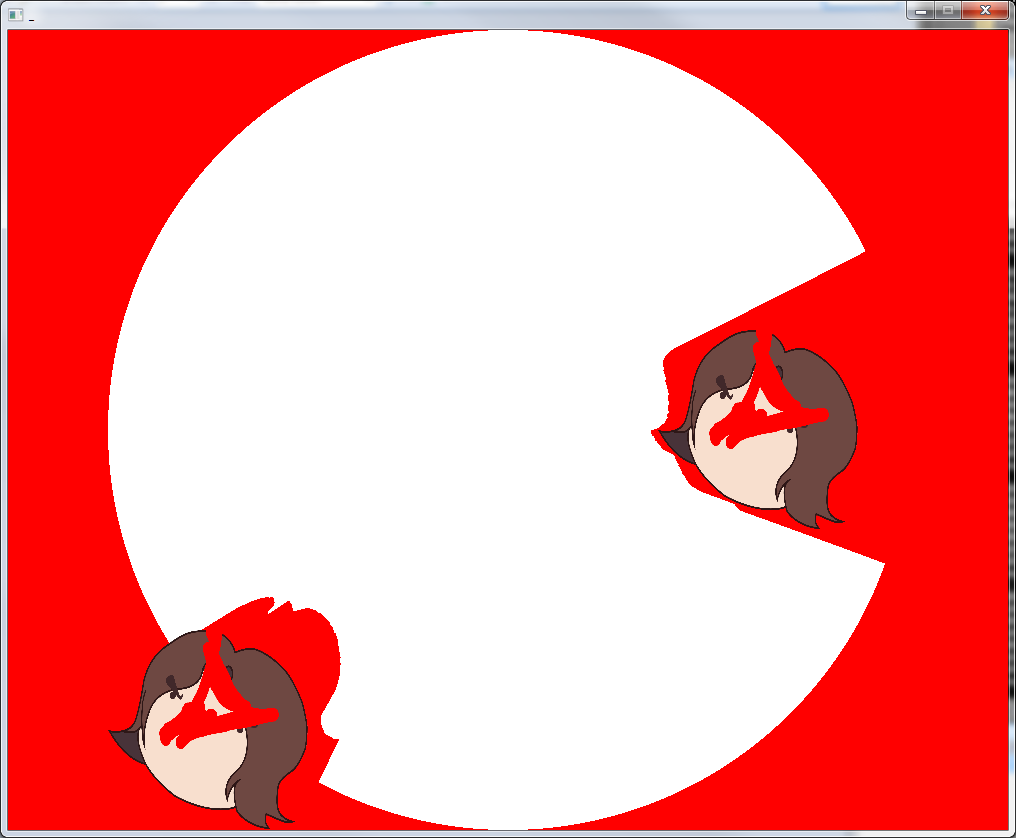
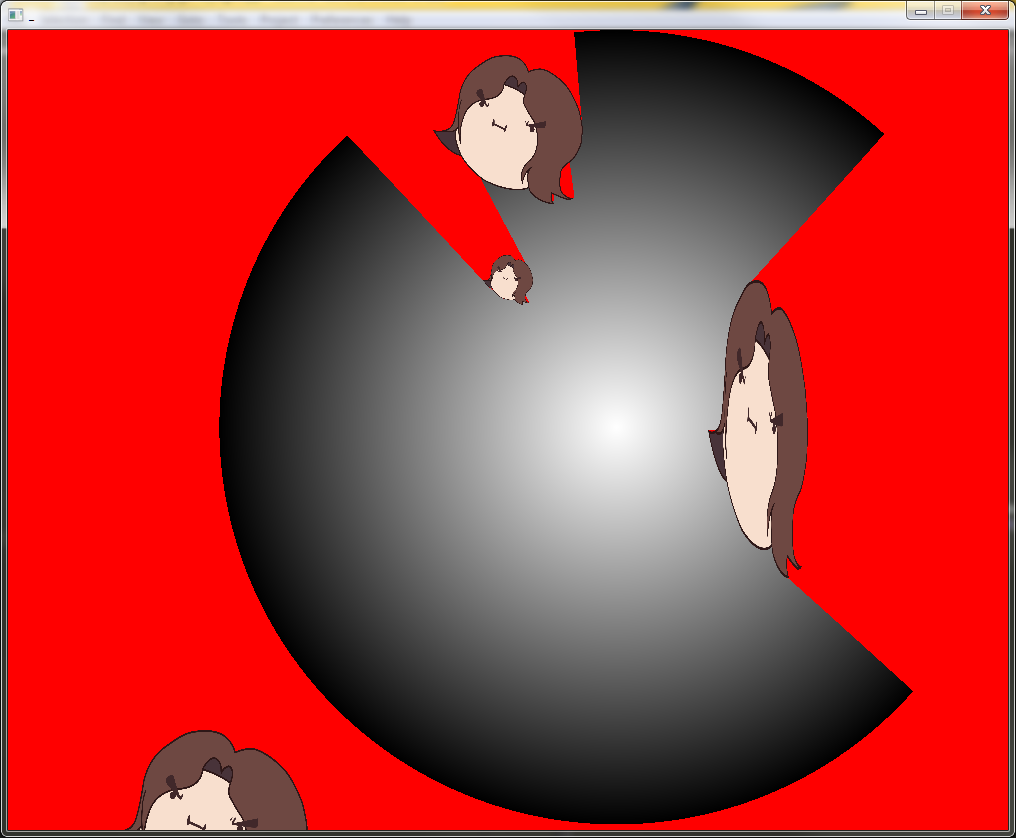
Color changes over time for the light and it blends with the background properly.

diff --git a/game_logic.cpp b/game_logic.cpp
@@ -3,6 +3,17 @@
 
 #include "main.h"
 
+
+void set_rgb(ViewDrawer& vd, float r, float g, float b) {
+	vd.light_color[0] = r;
+	vd.light_color[1] = g;
+	vd.light_color[2] = b;
+}
+
+float mod(float a, float b) {
+	return a-floor(a/b)*b;
+}
+
 void GameLogic::update_world() {
 	unsigned int time_diff = clock() - game_clock;
 	game_clock += time_diff;
@@ -10,7 +21,6 @@ void GameLogic::update_world() {
 	float time_scale = ((float)time_diff)/CLOCKS_PER_SEC;
 
 	IOController& ioc = game.get_controller();
-	bool moved = false;
 	#define move_scale 80.0
 	if (ioc.get_keypressed(SDLK_d)) {
 		game.get_drawer().light_x += time_scale*move_scale;
@@ -31,16 +41,18 @@ void GameLogic::update_world() {
 	if (ioc.get_keypressed(SDLK_LEFTBRACKET)) {
 		game.get_drawer().light_size += -time_scale*move_scale*4;
 	}
-	// for (int dir = 0; dir < 4; dir++) {
-	// 	if (ioc.get_keypressed(ioc.MOVE_KEYS[dir])) {
-	// 		player_loc[0] += time_scale*move_scale*cos(M_PI*(player_ori[0]-90*dir)/180);
-	// 		player_loc[1] += time_scale*move_scale*sin(M_PI*(player_ori[0]-90*dir)/180);
-	// 		moved = true;
-	// 	}
-	// }
-	// if (moved) {
-	// 	player_loc[2] = game.get_terrain().get_height(player_loc[0], player_loc[1], 0.06f);
-	// }
+
+	int h = ((float)game_clock/CLOCKS_PER_SEC*80.0);
+
+	float c = 1.0;
+	float x = (1-fabs(mod((float)h/60.0, 2)-1));
+
+	if (h < 60) set_rgb(game.get_drawer(), c, x, 0);
+	else if (h < 120) set_rgb(game.get_drawer(), x, c, 0);
+	else if (h < 180) set_rgb(game.get_drawer(), 0, c, x);
+	else if (h < 240) set_rgb(game.get_drawer(), 0, x, c);
+	else if (h < 300) set_rgb(game.get_drawer(), x, 0, c);
+	else set_rgb(game.get_drawer(), c, 0, x);
 }
 
 void GameLogic::add_mouse_motion(array<int, 4> new_motion) {

diff --git a/view_drawer.cpp b/view_drawer.cpp
@@ -31,7 +31,7 @@ void ViewDrawer::initialize() {
 	//Enables textures and alpha
 	glEnable(GL_TEXTURE_2D);
 	glEnable(GL_TEXTURE_1D);
-	glEnable(GL_ALPHA_TEST);
+	// glEnable(GL_ALPHA_TEST);
 	glEnable(GL_BLEND);
 	glBlendFunc(GL_SRC_ALPHA, GL_ONE_MINUS_SRC_ALPHA);
 
@@ -166,7 +166,7 @@ void ViewDrawer::draw_light(SH_prog_id shader, TH_tex_id shadow_map) {
 
 	glUniformMatrix4fv(game.get_state().get_uniform_loc(shader, "view_matrix"), 1, false, mvmat);
 	glUniformMatrix4fv(game.get_state().get_uniform_loc(shader, "proj_matrix"), 1, false, promat);
-	glUniform3f(game.get_state().get_uniform_loc(shader, "light_color"), 1.0, 1.0, 1.0);
+	glUniform3f(game.get_state().get_uniform_loc(shader, "light_color"), light_color[0], light_color[1], light_color[2]);
 	glUniform1i(game.get_state().get_uniform_loc(shader, "shadow_texture"), 1);
 
 	glBindBuffer(GL_ARRAY_BUFFER, square1_vbo);
@@ -256,7 +256,7 @@ void ViewDrawer::draw_screen() {
 	projection_set_screen(1000, 800);
 	glViewport(0, 0, 1000, 800);
 	glBindFramebuffer(GL_FRAMEBUFFER, 0);
-	glClearColor(1.0f, 0.0f, 0.0f, 0.0f);
+	glClearColor(0.0f, 0.0f, 0.0f, 1.0f);
 	glClear(GL_COLOR_BUFFER_BIT | GL_DEPTH_BUFFER_BIT);
 	
 	glPushMatrix();

diff --git a/view_drawer.h b/view_drawer.h
@@ -32,6 +32,7 @@ public:
 	float light_x = 0.0; 
 	float light_y = 0.0;
 	float light_size = 800.0;
+	array<float, 3> light_color = {{1.0, 1.0, 1.0}};
 	void TEMP_VBO_SHIT();
 
 	void initialize();

diff --git a/game_logic.h b/game_logic.h
@@ -10,6 +10,8 @@
 #define _USE_MATH_DEFINES
 #include <math.h>
 
+#include "my_math.h"
+
 using std::queue;
 using std::array;
 
